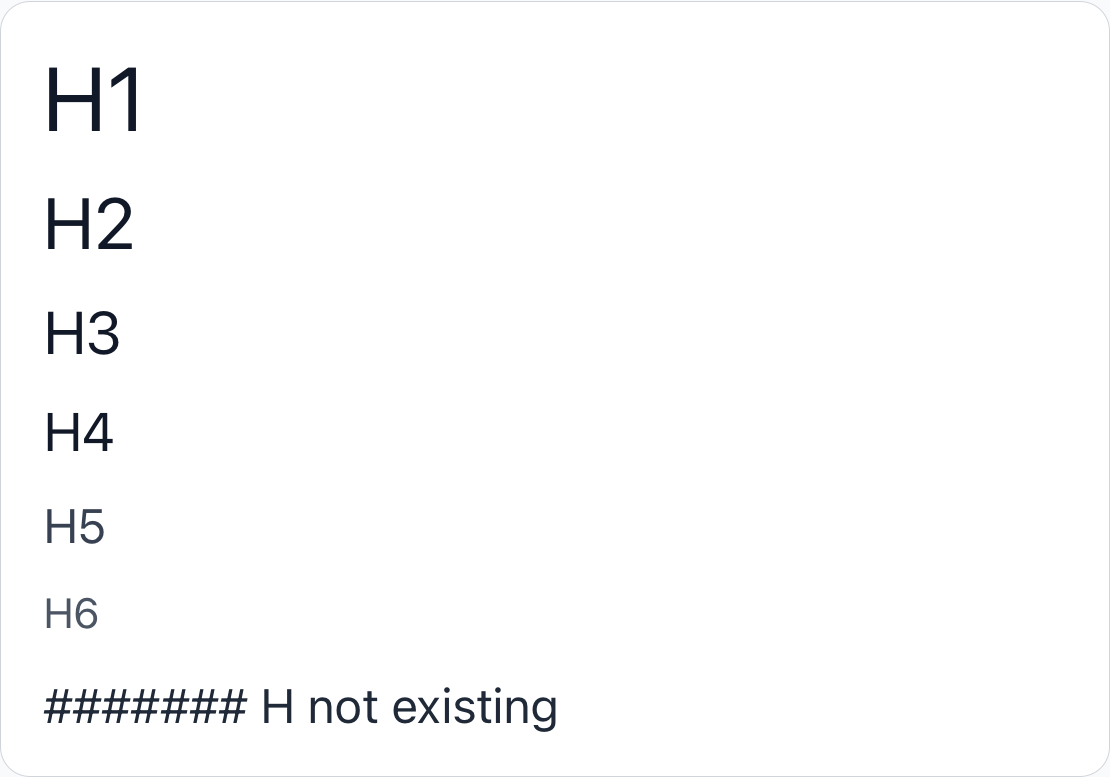
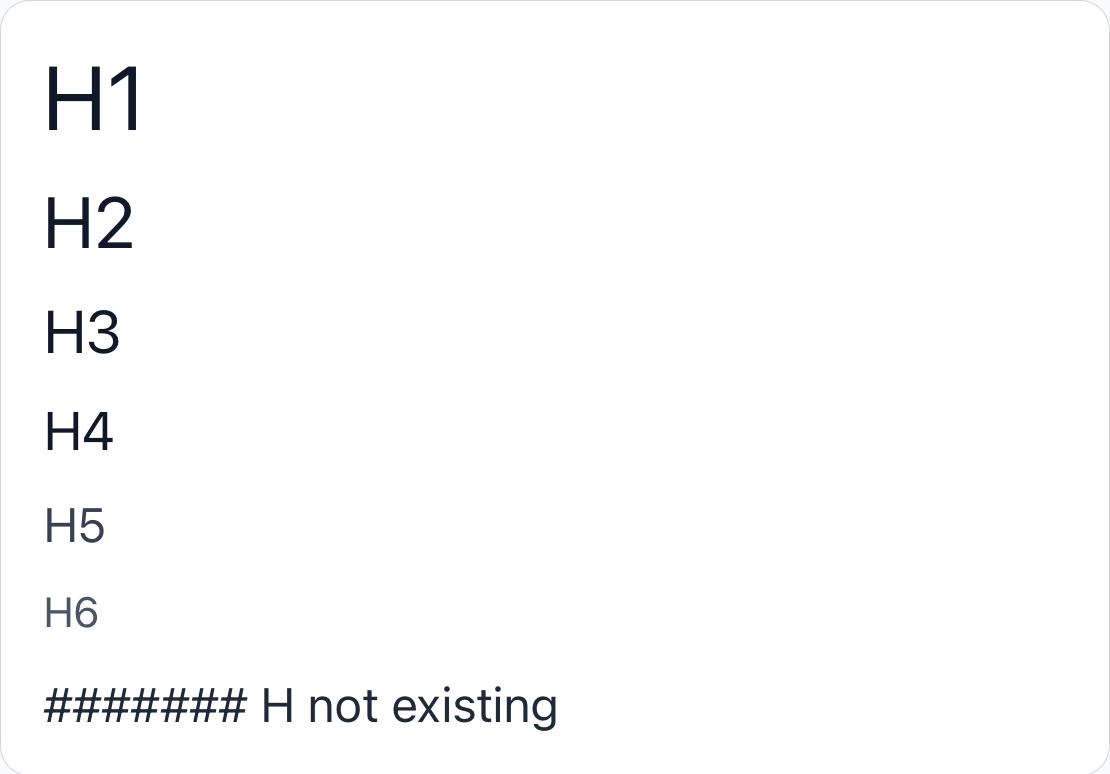
test: maestro text block elements tests (#299)
* feat: image buttons for example app

* test: more robust startup scripts

* test: block element tests finished

* refactor: removed unencessary spacebar

* test: add mixed and not mixed list tests, update screenshots

Pull request: test: maestro text block elements tests
### What/Why?                                                            
                                                                     
Adds Maestro E2E tests covering all block-level markdown elements
rendered by EnrichedMarkdownText. The tests verify correct visual    
rendering by capturing screenshots and comparing against baselines on
both iOS and Android.                                               
                
Block elements covered:
- Blockquote                                   
- Code block (fenced)                                                
- Headers (H1–H6)    
- Block image & inline image                                         
- Math display `($$...$$)`   
- Nested list, ordered list, unordered list
- Task list                                                          
- Paragraph
- Table                                                              
- Thematic break

Also includes:
- Updates to playground (two buttons for creating inline and block text examples)
- Updates to helper scripts (to make maestro e2e tests more robust and less flaky

### Testing
Run all e2e tests
```
yarn test:e2e:mobile
```

Run specific flow
```
yarn test:e2e:mobile -- .maestro/enrichedMarkdownText/flows/[flow name].yaml
```

### PR Checklist

- [x] Code compiles and runs on iOS
- [x] Code compiles and runs on Android
- [x] Updated documentation/README if applicable
- [x] Ran example app to verify changes
[…]

diff --git a/apps/example/src/screens/playground/PlaygroundScreen.tsx b/apps/example/src/screens/playground/PlaygroundScreen.tsx
@@ -8,6 +8,7 @@ import {
   KeyboardAvoidingView,
   Platform,
   Alert,
+  Image,
 } from 'react-native';
 import { useHeaderHeight } from '@react-navigation/elements';
 import {
@@ -45,6 +46,13 @@ const MARKDOWN_STYLE = {
     checkedStrikethrough: true,
   },
 };
+
+const BLOCK_IMAGE_URI = Image.resolveAssetSource(
+  require('../../assets/logo.png')
+).uri;
+const INLINE_IMAGE_URI = Image.resolveAssetSource(
+  require('../../assets/logo_icon.png')
+).uri;
 
 export default function PlaygroundScreen() {
   const headerHeight = useHeaderHeight();
@@ -103,6 +111,30 @@ export default function PlaygroundScreen() {
             <Text style={styles.buttonText}>
               {sizeMode === 'max' ? 'Base' : 'Max'}
             </Text>
+          </TouchableOpacity>
+        </View>
+        <View style={styles.buttonRow}>
+          <TouchableOpacity
+            style={styles.button}
+            onPress={() => {
+              const md = `![logo](${BLOCK_IMAGE_URI})`;
+              inputRef.current?.setValue(md);
+              setMarkdown(md);
+            }}
+            testID="insert-image-button"
+          >
+            <Text style={styles.buttonText}>Insert Image</Text>
+          </TouchableOpacity>
+          <TouchableOpacity
+            style={styles.button}
+            onPress={() => {
+              const md = `Enriched Markdown is a library for ![icon](${INLINE_IMAGE_URI}) React Native.`;
+              inputRef.current?.setValue(md);
+              setMarkdown(md);
+            }}
+            testID="insert-inline-image-button"
+          >
+            <Text style={styles.buttonText}>Insert Inline Image</Text>
           </TouchableOpacity>
         </View>
 